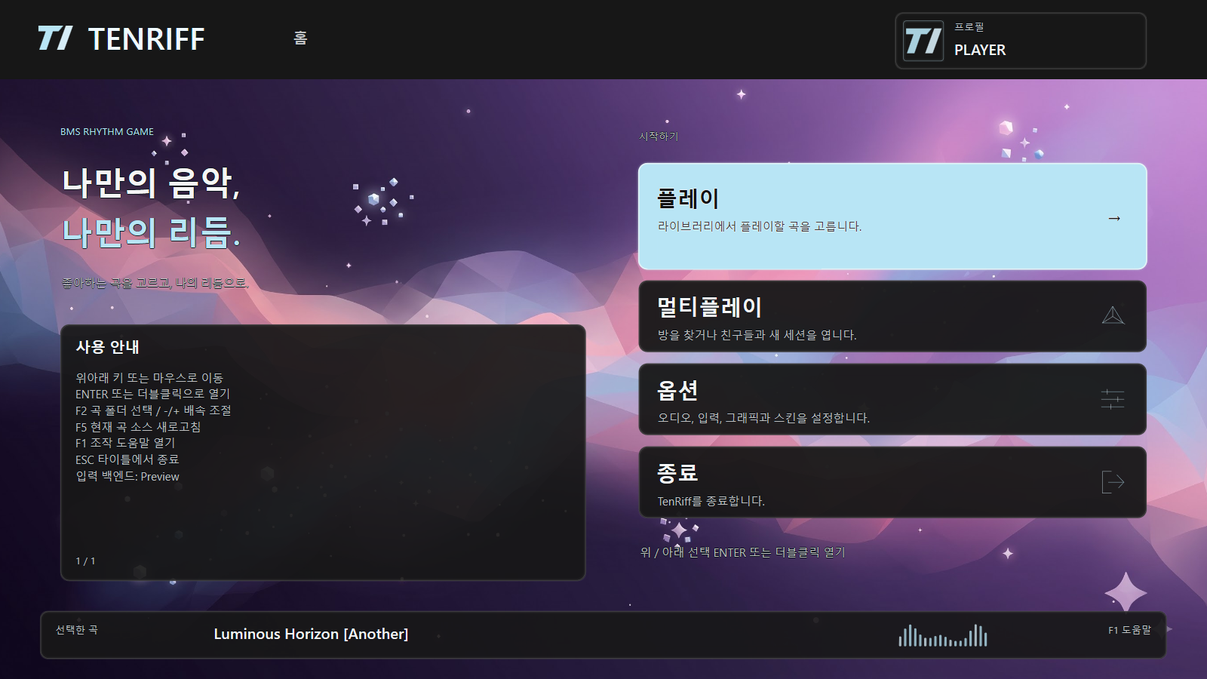
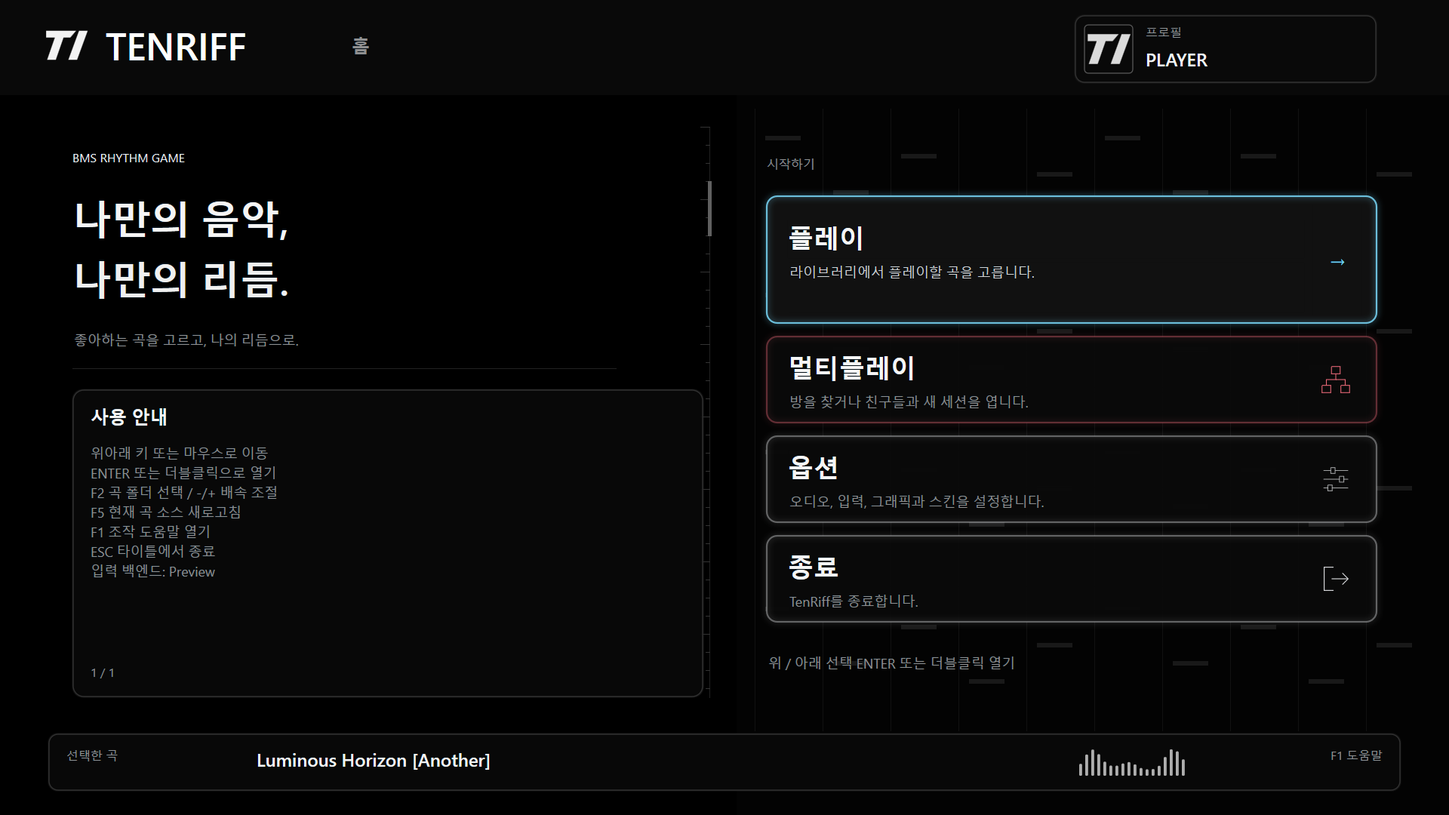
Release 1.8.9.7: input scheduling, scene music and lobby glow

diff --git a/src/input/InputThread.cpp b/src/input/InputThread.cpp
@@ -8,6 +8,7 @@
 #define WIN32_LEAN_AND_MEAN
 #endif
 #include <windows.h>
+#include <avrt.h>
 
 #include "config/KeycodeMap.h"
 #include "timing/HighResClock.h"
@@ -26,6 +27,73 @@ constexpr int64_t kRawInputRegistrationHealthIntervalNs = 100'000'000LL;
 
 // Global pointer for window procedure (thread-local would be cleaner but adds complexity).
 thread_local InputThread* g_input_thread = nullptr;
+
+// Own scheduling on the producer thread, including its in-place RawInput ->
+// Polling fallback. Never change process/global power policy or the audio task.
+class ScopedInputScheduling {
+public:
+    ScopedInputScheduling() {
+        if (!SetThreadPriority(GetCurrentThread(), THREAD_PRIORITY_ABOVE_NORMAL)) {
+            std::cerr << "[warn] Input fallback priority failed error=" << GetLastError() << '\n';
+        }
+        DWORD task_index = 0;
+        mmcss_ = AvSetMmThreadCharacteristicsW(L"Games", &task_index);
+        if (!mmcss_) {
+            std::cerr << "[warn] Input MMCSS registration failed error=" << GetLastError() << '\n';
+        } else if (!AvSetMmThreadPriority(mmcss_, AVRT_PRIORITY_HIGH)) {
+            std::cerr << "[warn] Input MMCSS High priority failed error=" << GetLastError() << '\n';
+        } else {
+            std::cerr << "[info] Input scheduling: MMCSS Games/High active.\n";
+        }
+
+        // Resolve these APIs at runtime so older Windows can retain the existing
+        // input path. Save the complete state and restore it on this same thread.
+        const auto kernel = GetModuleHandleW(L"kernel32.dll");
+        const auto get_info = reinterpret_cast<GetThreadInformationFn>(
+            GetProcAddress(kernel, "GetThreadInformation"));
+        set_info_ = reinterpret_cast<SetThreadInformationFn>(
+            GetProcAddress(kernel, "SetThreadInformation"));
+        previous_power_.Version = THREAD_POWER_THROTTLING_CURRENT_VERSION;
+        if (!get_info || !set_info_) {
+            std::cerr << "[warn] Input power throttling API unavailable; keeping system policy.\n";
+        } else if (!get_info(GetCurrentThread(), ThreadPowerThrottling,
+                             &previous_power_, sizeof(previous_power_))) {
+            std::cerr << "[warn] Input power policy query failed error=" << GetLastError() << '\n';
+        } else {
+            auto power = previous_power_;
+            power.ControlMask |= THREAD_POWER_THROTTLING_EXECUTION_SPEED;
+            power.StateMask &= ~THREAD_POWER_THROTTLING_EXECUTION_SPEED;
+            power_changed_ = set_info_(GetCurrentThread(), ThreadPowerThrottling,
+                                       &power, sizeof(power)) != FALSE;
+            if (power_changed_) {
+                std::cerr << "[info] Input scheduling: execution-speed power throttling off.\n";
+            } else {
+                std::cerr << "[warn] Input power policy update failed error=" << GetLastError() << '\n';
+            }
+        }
+    }
+
+    ~ScopedInputScheduling() {
+        if (power_changed_ && !set_info_(GetCurrentThread(), ThreadPowerThrottling,
+                                         &previous_power_, sizeof(previous_power_))) {
+            std::cerr << "[warn] Input power policy restore failed error=" << GetLastError() << '\n';
+        }
+        if (mmcss_ && !AvRevertMmThreadCharacteristics(mmcss_)) {
+            std::cerr << "[warn] Input MMCSS cleanup failed error=" << GetLastError() << '\n';
+        }
+    }
+
+    ScopedInputScheduling(const ScopedInputScheduling&) = delete;
+    ScopedInputScheduling& operator=(const ScopedInputScheduling&) = delete;
+
+private:
+    using GetThreadInformationFn = BOOL(WINAPI*)(HANDLE, THREAD_INFORMATION_CLASS, LPVOID, DWORD);
+    using SetThreadInformationFn = BOOL(WINAPI*)(HANDLE, THREAD_INFORMATION_CLASS, LPVOID, DWORD);
+    HANDLE mmcss_ = nullptr;
+    SetThreadInformationFn set_info_ = nullptr;
+    THREAD_POWER_THROTTLING_STATE previous_power_{};
+    bool power_changed_ = false;
+};
 
 LRESULT CALLBACK input_window_proc(HWND hwnd, UINT msg, WPARAM wparam, LPARAM lparam) {
     switch (msg) {
@@ -238,6 +306,7 @@ void InputThread::signal_start_result(bool success) {
 }
 
 void InputThread::thread_main() {
+    ScopedInputScheduling scheduling;
     g_input_thread = this;
     if (config_.backend == InputBackend::Polling) {
         signal_start_result(true);
@@ -390,9 +459,6 @@ bool InputThread::thread_main_rawinput() {
 
     signal_start_result(true);
 
-    // Set thread priority (above normal for input responsiveness).
-    SetThreadPriority(GetCurrentThread(), THREAD_PRIORITY_ABOVE_NORMAL);
-
     const bool polling_shadow_enabled = config_.rawinput_polling_shadow;
     const int polling_hz = config_.polling_hz <= 0 ? 1000 : config_.polling_hz;
     const int64_t interval_ns = 1'000'000'000LL / static_cast<int64_t>(polling_hz);
@@ -505,8 +571,6 @@ void InputThread::thread_main_polling(bool reconcile_existing_state) {
     } else {
         refresh_polling_key_state(keys, last_state);
     }
-    SetThreadPriority(GetCurrentThread(), THREAD_PRIORITY_ABOVE_NORMAL);
-
     timing::PreciseWait precise_wait;
     int64_t next_tick_ns = timing::HighResClock::now_ns();
     while (!should_stop_.load(std::memory_order_acquire)) {

diff --git a/tests/unit/test_chart_audio_playback.cpp b/tests/unit/test_chart_audio_playback.cpp
@@ -307,6 +307,27 @@ TEST_CASE("background sound toggle only gates non-game background audio") {
     CHECK(tenriff::app::gameplay_bgm_gain(0.75) == doctest::Approx(0.75f));
 }
 
+TEST_CASE("TenRiff scene music is quieter while BMS gameplay and previews keep their scale") {
+    const std::vector<float> clip{0.5f, -0.5f, 0.25f, -0.25f};
+    for (const double volume : {0.0, 0.5, 1.0}) {
+        std::vector<float> gameplay(4), preview(4);
+        std::size_t cursor = 0;
+        tenriff::app::mix_chart_audio_clip_linear(clip, 0, 1.0,
+            tenriff::app::gameplay_bgm_gain(volume), gameplay.data(), 2, 0);
+        tenriff::app::mix_looping_song_preview(clip, cursor,
+            static_cast<float>(tenriff::app::menu_background_gain(true, 1.0, volume)), preview.data(), 2);
+        for (std::size_t i = 0; i < clip.size(); ++i) {
+            CHECK(gameplay[i] == doctest::Approx(clip[i] * volume));
+            CHECK(preview[i] == doctest::Approx(gameplay[i]));
+        }
+        CHECK(tenriff::app::tenriff_music_gain(true, 1.0, volume) == doctest::Approx(volume * 0.4));
+        CHECK(tenriff::app::tenriff_music_gain(true, 0.5, volume) == doctest::Approx(volume * 0.2));
+    }
+    CHECK(tenriff::app::tenriff_music_gain(false, 1.0, 1.0) == doctest::Approx(0.0));
+    CHECK(tenriff::app::tenriff_music_gain(true, 1.0, 2.0) == doctest::Approx(0.4));
+    CHECK(tenriff::app::gameplay_bgm_gain(2.0) == doctest::Approx(2.0));
+}
+
 TEST_CASE("song preview PCM mixer loops and follows gain") {
     const std::vector<float> clip = {
         1.0f, -1.0f,

diff --git a/src/app/AudioMixPolicy.h b/src/app/AudioMixPolicy.h
@@ -66,4 +66,12 @@ inline constexpr float kOutputSoftLimitThreshold = 0.92f;
            std::clamp(bgm_volume, 0.0, 1.0);
 }
 
+// Only TenRiff's own scene music gets the quieter reference level. BMS
+// gameplay, song previews and editor auditions retain their original gains.
+[[nodiscard]] inline double tenriff_music_gain(bool enabled,
+                                               double master_volume,
+                                               double bgm_volume) {
+    return menu_background_gain(enabled, master_volume, bgm_volume) * 0.4;
+}
+
 }  // namespace tenriff::app

diff --git a/src/app/OnlineRecordsClient.cpp b/src/app/OnlineRecordsClient.cpp
@@ -153,7 +153,7 @@ bool fetch_json_impl(const std::string& base_url,
     while (!path.empty() && path.back() == L'/') path.pop_back();
     path += utf8_to_wide(endpoint);
 
-    InternetHandle session(WinHttpOpen(L"TenRiff/1.8.9.6 records",
+    InternetHandle session(WinHttpOpen(L"TenRiff/1.8.9.7 records",
                                        WINHTTP_ACCESS_TYPE_AUTOMATIC_PROXY,
                                        WINHTTP_NO_PROXY_NAME,
                                        WINHTTP_NO_PROXY_BYPASS, 0));

diff --git a/docs/release-1.8.9.7-gate.md b/docs/release-1.8.9.7-gate.md
@@ -1,0 +1,31 @@
+# TenRiff 1.8.9.7 — 입력 스케줄링·로비 테두리·자체 음악
+
+## 변경 범위
+
+- 입력 생산자 스레드에서 MMCSS `Games`/High를 요청한다. 기존 Above Normal을 fallback으로 설정하고 MMCSS 적용 후 일반 우선순위를 다시 덮어쓰지 않는다.
+- 입력 스레드의 `THREAD_POWER_THROTTLING_EXECUTION_SPEED`를 끈다. 이전 상태를 읽어 성공 시 저장하고, 스레드 종료 시 복원한다. API 미지원/실패는 한 번 로그로 남기고 기존 입력 동작을 계속한다.
+- RawInput과 Polling의 공통 진입점에 수명을 묶어 in-place fallback, 초기화 실패, 정상 종료를 모두 처리한다. 전역 전원 계획·레지스트리·affinity·오디오 우선순위는 바꾸지 않는다.
+- 메인 로비의 네 메뉴 테두리에 아이콘과 같은 하늘색 `#79D8FA`, 붉은색 `#F06B7B`, 흰색 `#F2F4F7`과 은은한 glow를 적용한다. 네 캐시 슬롯을 재사용하며 선택 시에는 밝기만 변경한다. 클릭 영역과 배치는 유지한다. 외부 PNG 아이콘은 기존처럼 원본 픽셀을 유지하며 이미지에서 색을 추출하지 않는다.
+- 텐리프 자체 음악(타이틀·메뉴·멀티 로비·선곡 화면 배경음·결과)의 재생 지점에만 0.4배를 적용한다. BMS 곡의 배경음·키음·변환된 소리·선곡 및 편집기 미리듣기, UI 효과음은 원래 음량 스케일을 유지한다. 슬라이더 표시/저장값과 기존 범위도 유지한다. Windows 볼륨 40%의 청감 곡선을 복제하지 않는다.
+
+입력 timestamp, 타이머 주기, 1.8.9.6의 정밀 대기, 판정 수치와 R1~R5, 점수·게이지·리플레이·BMS 오디오 믹싱·인게임 렌더링은 유지한다. 고정 기준선 `1.8.7`의 태그/자산/문서는 변경하지 않는다. 웹사이트·API·DB 변경은 없다.
+
+## 검증 항목
+
+릴리스 게이트는 Windows Release 빌드 및 CTest, 오디오 PCM 회귀, 에디터 검사, 실제 MenuApp/GameSession 무음 WASAPI 검사, 네 로비 선택 상태의 Direct2D 캡처와 hit geometry, 입력 스케줄링의 API 성공/실패·정리·재시작 검사를 확인한다. ZIP CRC·추출 해시·Git 소스 동등성·독립 추출 소스 빌드·개인정보 검사 후 PR/main CI와 공개 파일 readback을 확인한다.
+
+로컬 선행 시험에서는 1,169 tests, 앱/세션 220 checks, 로비 세 fixture 360 measured Presents와 12 PNG가 통과했다. 선택적 외부 Python reference 비교는 이 테스트 개수와 별도로 생략될 수 있으며 실행 로그에서 구별한다. 실제 측정 증거는 각 릴리스 작업의 별도 검증 기록에 보존하며 이 수치를 물리 입력/청감/성능 개선의 증명으로 사용하지 않는다.
+
+## 확인하지 못한 범위
+
+MMCSS와 전원 스로틀링 해제는 동시에 적용되어 개별 효과가 분리되지 않았다. CPU 사용률만으로 원인이나 해결 여부를 판정할 수 없다. 실제 키 누름→판정→소리 지연, CPU/전력 변화, 스피커 청감, 장시간·다른 PC의 안정성은 별도 검증 대상이다. Preview hit geometry는 물리 마우스 입력과 구별한다. 캐시 재사용 설계가 특정 FPS 향상을 보장하지 않는다.
+
+## English scope
+
+The input producer requests MMCSS Games/High and opts out of execution-speed power throttling with owner-thread cleanup and failure fallback. Home borders use icon-matched cached glow. Only TenRiff scene music uses a 0.4 reference gain; BMS songs, keysounds and previews retain their previous scale. Fixed baseline 1.8.7 and gameplay/replay contracts are preserved. No universal stutter, physical-latency or CPU/power improvement is claimed.
+
+## API 근거
+
+- [Microsoft MMCSS](https://learn.microsoft.com/en-us/windows/win32/procthread/multimedia-class-scheduler-service)
+- [SetThreadInformation](https://learn.microsoft.com/en-us/windows/win32/api/processthreadsapi/nf-processthreadsapi-setthreadinformation)
+- [AvRevertMmThreadCharacteristics](https://learn.microsoft.com/en-us/windows/win32/api/avrt/nf-avrt-avrevertmmthreadcharacteristics)

diff --git a/docs/roadmap.ja.md b/docs/roadmap.ja.md
@@ -1,5 +1,7 @@
 # TenRiff Development Roadmap (staged)
 
+**2026-10-14 · 1.8.9.7:** 入力スレッドにMMCSS Games/Highと実行速度の電力スロットリング無効化を適用し、ホームのメニュー枠にアイコン色の控えめなglowを加えます。TenRiff独自のメニュー・結果音楽だけを従来の40%に下げ、BMS楽曲・キー音・試聴は元の音量を維持します。固定基準は1.8.7のままで、物理入力遅延の改善は未確認です。 [Scope / 검증](release-1.8.9.7-gate.md).
+
 **2026-10-13 · 1.8.9.6:** 入力とゲーム進行/HUDの短い待機に再利用する高分解能タイマーを使い、RawInputはメッセージで起床します。比較版Bの方式を適用し、判定幅・R1–R5・リプレイ・固定基準1.8.7を維持します。実プレイの感触は回ごとに異なり、すべての引っ掛かりの解消を保証しません。 [Scope / 검증](release-1.8.9.6-gate.md).
 
 **固定基準: [1.8.7](baseline-1.8.7.ja.md)**（2026-10-10）。Git tag `1.8.7`、commit `6b060ad47b950ad9e0dbc516fbb40189e8e21347` を使い、`latest` や新しいリリースに合わせて自動変更しません。
@@ -18,7 +20,7 @@
 
 ## Current Baseline
 - Windows GUI / runtime が主なサポート経路です。
-- 固定基準は `1.8.7`、このソースは `1.8.9.6`。公開 package は NK3 P64 と generalized pattern MLP inference model を同梱するが、BGA upscaler model は同梱しない。互換性と権利を確認済みの upscaler ONNX を選択しても path を保存するだけで、BGA Upscaler は user が有効化して high-spec warning を確認するまで off のまま。自動 benchmark gate はない。
+- 固定基準は `1.8.7`、このソースは `1.8.9.7`。公開 package は NK3 P64 と generalized pattern MLP inference model を同梱するが、BGA upscaler model は同梱しない。互換性と権利を確認済みの upscaler ONNX を選択しても path を保存するだけで、BGA Upscaler は user が有効化して high-spec warning を確認するまで off のまま。自動 benchmark gate はない。
 - 現行 menu / runtime は BMS family（`.bms/.bme/.bml/.pms`）専用で、native、bundle/profile の TenRiff `skin.json`、LR2 skin をサポート。
 - 現在出荷されている挙動は [`docs/current-state.ja.md`](current-state.ja.md) を先に見てください。この roadmap は方向と残作業を示す文書です。
 

diff --git a/docs/roadmap.md b/docs/roadmap.md
@@ -1,5 +1,7 @@
 # TenRiff Development Roadmap (staged)
 
+**2026-10-14 · 1.8.9.7:** 입력 스레드에 MMCSS Games/High와 전원 스로틀링 해제를 적용하고, 로비 메뉴 테두리를 아이콘 색의 은은한 glow로 표시합니다. 텐리프 자체 메뉴·결과 음악만 기존의 40%로 낮추며 BMS 곡·키음·미리듣기는 원래 음량을 유지합니다. 고정 기준선은 1.8.7이며 물리 입력 지연 개선은 아직 입증되지 않았습니다. [Scope / 검증](release-1.8.9.7-gate.md).
+
 **2026-10-13 · 1.8.9.6:** 입력과 게임 진행/HUD의 짧은 대기에 재사용 고해상도 타이머를 적용하고, RawInput은 메시지가 오면 깨어납니다. B 비교 방식의 제품 적용이며, 수치 판정 창·R1~R5·리플레이·고정 기준 1.8.7을 유지합니다. 실제 체감은 회차마다 달라 모든 움찔의 해결을 보장하지 않습니다. [Scope / 검증](release-1.8.9.6-gate.md).
 
 **고정 기준선: [1.8.7](baseline-1.8.7.md)** (2026-10-10). Git tag `1.8.7`, commit `6b060ad47b950ad9e0dbc516fbb40189e8e21347`을 사용하며 `latest`나 새 릴리스로 자동 변경하지 않습니다.
@@ -18,7 +20,7 @@ This roadmap captures the recommended high-level order for building out the game
 
 ## Current baseline
 - Windows GUI/runtime is the primary supported path.
-- The fixed baseline is `1.8.7` and this source targets `1.8.9.6`; public packages bundle NK3 P64 and generalized pattern MLP inference models, but no BGA upscaler model. Selecting a compatible rights-cleared upscaler ONNX only stores its path, and BGA Upscaler remains off until the user enables it and accepts the high-spec warning; there is no automatic benchmark gate.
+- The fixed baseline is `1.8.7` and this source targets `1.8.9.7`; public packages bundle NK3 P64 and generalized pattern MLP inference models, but no BGA upscaler model. Selecting a compatible rights-cleared upscaler ONNX only stores its path, and BGA Upscaler remains off until the user enables it and accepts the high-spec warning; there is no automatic benchmark gate.
 - The active menu/runtime is BMS-family only (`.bms/.bme/.bml/.pms`) and supports native, bundled/profile TenRiff `skin.json`, and LR2 skins.
 - For current shipped behavior, read `docs/current-state.md` first; this roadmap is about direction and remaining work.
 

diff --git a/docs/roadmap.en.md b/docs/roadmap.en.md
@@ -1,5 +1,7 @@
 # TenRiff Development Roadmap (staged)
 
+**2026-10-14 · 1.8.9.7:** Input threads request MMCSS Games/High and disable execution-speed power throttling. Home action borders share their icon colors with subtle cached glow. Only TenRiff scene music is reduced to 40%; BMS songs, keysounds and previews retain their original volume scale. The fixed baseline remains 1.8.7; physical input latency improvement is not established. [Scope / 검증](release-1.8.9.7-gate.md).
+
 **2026-10-13 · 1.8.9.6:** Reuse high-resolution timers for short input and gameplay/HUD waits; RawInput wakes on messages. Ships the B comparison behavior while preserving judgement windows, R1–R5, replays and the fixed 1.8.7 baseline. Manual impressions varied between runs; this does not guarantee removal of every stutter. [Scope / 검증](release-1.8.9.6-gate.md).
 
 **Fixed baseline: [1.8.7](baseline-1.8.7.en.md)** (2026-10-10). Use Git tag `1.8.7`, commit `6b060ad47b950ad9e0dbc516fbb40189e8e21347`; do not advance it automatically with `latest` or a new release.
@@ -18,7 +20,7 @@ This roadmap captures the recommended high-level order for building out the game
 
 ## Current Baseline
 - Windows GUI / runtime is the primary supported path.
-- The fixed baseline is `1.8.7` and this source targets `1.8.9.6`; public packages bundle NK3 P64 and generalized pattern MLP inference models, but no BGA upscaler model. Selecting a compatible rights-cleared upscaler ONNX only stores its path, and BGA Upscaler remains off until the user enables it and accepts the high-spec warning; there is no automatic benchmark gate.
+- The fixed baseline is `1.8.7` and this source targets `1.8.9.7`; public packages bundle NK3 P64 and generalized pattern MLP inference models, but no BGA upscaler model. Selecting a compatible rights-cleared upscaler ONNX only stores its path, and BGA Upscaler remains off until the user enables it and accepts the high-spec warning; there is no automatic benchmark gate.
 - The active menu / runtime is BMS-family only (`.bms/.bme/.bml/.pms`) and supports native, bundled/profile TenRiff `skin.json`, and LR2 skins.
 - For current shipped behavior, read `docs/current-state.en.md` first; this roadmap is about direction and remaining work.
 

diff --git a/docs/config.ja.md b/docs/config.ja.md
@@ -47,7 +47,8 @@ profile が存在しない場合は初回起動時に自動生成されます。
 - `volume` (double)
   - master volume
 - `bgm_volume` (double)
-  - 新規設定の既定値は `1.0`（100%）。Audioの先頭行で、保存済みプロファイルの値は維持します。
+  - 新規設定の既定値は `1.0`（100%）。マスター音量の直後に表示し、既存プロファイルの保存値は維持します。
+  - 1.8.9.7では、TenRiff独自の音楽（タイトル・メニュー・選曲画面の背景音楽・結果）の基準出力だけを従来の40%に下げます。BMS楽曲のBGM・キー音・選曲試聴・エディター試聴とUI効果音は元のスケールを維持します。表示値・保存値と音量範囲は変更せず、Windows音量40%と同じ聴感を意味しません。
 - `normalize_audio` (bool)
   - ゲーム内RMS音量調整。既定false。ONはRMS→ソフトリミッター→マスター、OFFは線形マスター音量→最終出力範囲制限のみ。メニュー音楽と選曲プレビューは変更しません。
 - `keysound_volume` (double)
@@ -56,6 +57,8 @@ profile が存在しない場合は初回起動時に自動生成されます。
 [ASIO 設定](asio-audio.md)参照。選択サンプルレートを固定し譜面音声をリサンプルします。`frames` は要求値でありドライバーの許容サイズに調整します。ASIO では preset は frames を上書きせず、`exclusive` と `periods` は WASAPI 用です。ASIO エラー時の自動 WASAPI 切替はありません。
 
 ### `input`
+
+1.8.9.7は入力スレッドだけにMMCSS `Games`/Highを要求し、実行速度の電力スロットリングを解除します。API失敗は開始ログへ記録して既存経路を維持し、終了時に同じスレッドで復元・解除します。RawInputからPollingへ切り替えても適用を維持します。システムの電源プラン・レジストリ・音声優先度は変更しません。物理入力遅延の改善は実プレイ比較が必要です。
 
 - `backend` (string)
   - `polling | rawinput`

diff --git a/docs/roadmap.zh-CN.md b/docs/roadmap.zh-CN.md
@@ -1,5 +1,7 @@
 # TenRiff 开发路线图（分阶段）
 
+**2026-10-14 · 1.8.9.7:** 输入线程请求MMCSS Games/High并关闭执行速度电源节流，主页菜单边框使用与图标一致的颜色和柔和缓存辉光。仅将TenRiff自带菜单、结果音乐降至原来的40%，BMS曲目、键音和试听保持原有音量比例。固定基线仍为1.8.7，物理输入延迟改善尚未证实。 [Scope / 검증](release-1.8.9.7-gate.md).
+
 **2026-10-13 · 1.8.9.6:** 输入和游戏推进/HUD的短等待使用可复用的高分辨率计时器，RawInput由消息唤醒。采用对比版本B的方式，保留判定范围、R1–R5、回放和固定基线1.8.7。手动试玩感受随轮次变化，不能保证消除所有卡顿。 [Scope / 검증](release-1.8.9.6-gate.md).
 
 **固定基准：[1.8.7](baseline-1.8.7.zh-CN.md)**（2026-10-10）。使用 Git tag `1.8.7`、commit `6b060ad47b950ad9e0dbc516fbb40189e8e21347`，不随 `latest` 或新版本自动更新。
@@ -18,7 +20,7 @@
 
 ## 当前基线
 - Windows GUI/runtime 是主要受支持路径。
-- 固定基准为 `1.8.7`，此源码版本为 `1.8.9.6`；公开包附带 NK3 P64 与 generalized pattern MLP inference 模型，但不附带 BGA upscaler 模型。选择兼容且权利已厘清的 upscaler ONNX 只会保存路径，BGA Upscaler 会一直保持 off，直到用户手动开启并确认 high-spec warning；不存在自动 benchmark gate。
+- 固定基准为 `1.8.7`，此源码版本为 `1.8.9.7`；公开包附带 NK3 P64 与 generalized pattern MLP inference 模型，但不附带 BGA upscaler 模型。选择兼容且权利已厘清的 upscaler ONNX 只会保存路径，BGA Upscaler 会一直保持 off，直到用户手动开启并确认 high-spec warning；不存在自动 benchmark gate。
 - 当前菜单/runtime 仅支持 BMS family（`.bms/.bme/.bml/.pms`），并支持 native、bundle/profile TenRiff `skin.json` 与 LR2 skin。
 - 关于当前已发布的行为，请先看 [`docs/current-state.zh-CN.md`](current-state.zh-CN.md)；这份路线图主要讲方向和剩余工作。
 

diff --git a/docs/config.md b/docs/config.md
@@ -47,7 +47,8 @@
 - `volume` (double)
   - master volume
 - `bgm_volume` (double)
-  - 새 설정 기본값은 `1.0` (100%). 오디오 메뉴 첫 행이며, 이미 저장된 프로필 값은 유지합니다.
+  - 새 설정 기본값은 `1.0` (100%). 마스터 음량 바로 다음 행이며, 이미 저장된 프로필 값은 유지합니다.
+  - 1.8.9.7은 텐리프 자체 음악(타이틀·메뉴·선곡 화면·결과)의 기준 출력만 이전의 40%로 낮춥니다. BMS 곡의 배경음·키음·선곡 미리듣기·편집기 미리듣기와 UI 효과음은 원래 스케일을 유지합니다. 표시/저장값과 기존 음량 설정 범위는 그대로이며, Windows 볼륨 40%와 청감이 같다는 의미는 아닙니다.
 - `normalize_audio` (bool)
   - 인게임 RMS 음량 조절, 기본 false. ON은 기존 RMS→소프트 리미터→마스터 경로, OFF는 선형 마스터→최종 출력 범위 제한만 적용합니다. 메뉴 음악·선곡 미리듣기는 그대로 유지합니다.
 - `keysound_volume` (double)
@@ -56,6 +57,8 @@
 ASIO 설정은 [장치 설정 안내](asio-audio.md)를 참고하세요. 선택 샘플레이트를 고정하고 차트 오디오를 리샘플링합니다. `frames`는 요청값이며 드라이버 허용 크기로 협상됩니다. ASIO에서는 프리셋이 버퍼 크기를 덮어쓰지 않으며 `exclusive`·`periods`는 WASAPI 전용입니다. ASIO 오류 시 WASAPI로 자동 전환하지 않습니다.
 
 ### `input`
+
+1.8.9.7의 입력 스레드는 MMCSS `Games`/High와 스레드 실행 속도 전원 스로틀링 해제를 시도합니다. API 실패는 시작 로그에 남기고 기존 입력 경로로 계속하며, 같은 스레드에서 종료 시 해제/복원합니다. RawInput→Polling 전환에도 적용 범위가 유지됩니다. 전역 전원 계획·레지스트리·오디오 우선순위는 변경하지 않습니다. 실제 타건 지연 개선은 별도 플레이 비교가 필요합니다.
 
 - `backend` (string)
   - `polling | rawinput`

diff --git a/docs/config.en.md b/docs/config.en.md
@@ -47,7 +47,8 @@ If a profile does not exist, it is created automatically on first launch.
 - `volume` (double)
   - master volume
 - `bgm_volume` (double)
-  - New-settings default: `1.0` (100%). First Audio row; existing saved profile values are preserved.
+  - New-settings default: `1.0` (100%). Immediately after Master volume; existing saved profile values are preserved.
+  - Version 1.8.9.7 lowers only TenRiff scene music (title, menus, song-selection background and results) to 40% of its former reference output. BMS chart BGM, keysounds, song/editor previews and UI effects keep their original scale. Displayed/saved values and existing volume ranges are unchanged; this does not reproduce the perceived loudness of Windows volume 40%.
 - `normalize_audio` (bool)
   - In-game RMS loudness control, default false. ON retains RMS → soft limiter → master; OFF applies linear master gain and only guards final output overflow. Menu music and song previews are unchanged.
 - `keysound_volume` (double)
@@ -56,6 +57,8 @@ If a profile does not exist, it is created automatically on first launch.
 See [ASIO setup](asio-audio.md). ASIO holds the selected sample rate fixed and resamples chart audio. `frames` is a request negotiated to a legal driver size. Presets do not overwrite ASIO frames; `exclusive` and `periods` apply to WASAPI. ASIO failures do not fall back to WASAPI automatically.
 
 ### `input`
+
+Version 1.8.9.7 requests MMCSS `Games`/High and disables execution-speed power throttling on the input thread only. API failures are logged at startup and retain the existing input path. Cleanup restores power policy and reverts MMCSS on the owning thread, including RawInput-to-Polling fallback. No global power plan, registry or audio priority changes. Physical latency improvement requires a separate play comparison.
 
 - `backend` (string)
   - `polling | rawinput`
